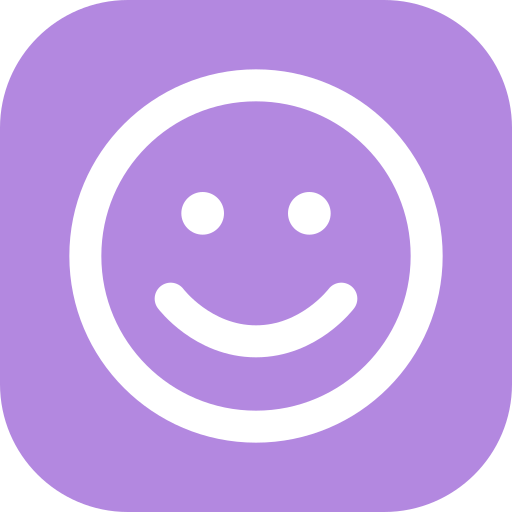
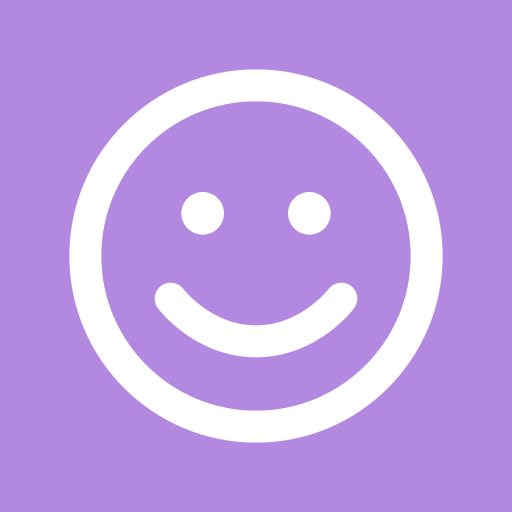
Updates

diff --git a/sw.js b/sw.js
@@ -1,2 +1,2 @@
 try{self["workbox:core:7.4.0"]&&_()}catch{}const T=(a,...e)=>{let t=a;return e.length>0&&(t+=` :: ${JSON.stringify(e)}`),t},N=T;class l extends Error{constructor(e,t){const s=N(e,t);super(s),this.name=e,this.details=t}}const E=new Set,f={googleAnalytics:"googleAnalytics",precache:"precache-v2",prefix:"workbox",runtime:"runtime",suffix:typeof registration<"u"?registration.scope:""},C=a=>[f.prefix,a,f.suffix].filter(e=>e&&e.length>0).join("-"),O=a=>{for(const e of Object.keys(f))a(e)},U={updateDetails:a=>{O(e=>{typeof a[e]=="string"&&(f[e]=a[e])})},getGoogleAnalyticsName:a=>a||C(f.googleAnalytics),getPrecacheName:a=>a||C(f.precache),getPrefix:()=>f.prefix,getRuntimeName:a=>a||C(f.runtime),getSuffix:()=>f.suffix};function k(a,e){const t=new URL(a);for(const s of e)t.searchParams.delete(s);return t.href}async function I(a,e,t,s){const n=k(e.url,t);if(e.url===n)return a.match(e,s);const r=Object.assign(Object.assign({},s),{ignoreSearch:!0}),c=await a.keys(e,r);for(const i of c){const o=k(i.url,t);if(n===o)return a.match(i,s)}}let y;function M(){if(y===void 0){const a=new Response("");if("body"in a)try{new Response(a.body),y=!0}catch{y=!1}y=!1}return y}class W{constructor(){this.promise=new Promise((e,t)=>{this.resolve=e,this.reject=t})}}async function A(){for(const a of E)await a()}const S=a=>new URL(String(a),location.href).href.replace(new RegExp(`^${location.origin}`),"");function q(a){return new Promise(e=>setTimeout(e,a))}function P(a,e){const t=e();return a.waitUntil(t),t}async function D(a,e){let t=null;if(a.url&&(t=new URL(a.url).origin),t!==self.location.origin)throw new l("cross-origin-copy-response",{origin:t});const s=a.clone(),r={headers:new Headers(s.headers),status:s.status,statusText:s.statusText},c=M()?s.body:await s.blob();return new Response(c,r)}function j(){self.addEventListener("activate",()=>self.clients.claim())}try{self["workbox:precaching:7.4.0"]&&_()}catch{}const H="__WB_REVISION__";function F(a){if(!a)throw new l("add-to-cache-list-unexpected-type",{entry:a});if(typeof a=="string"){const r=new URL(a,location.href);return{cacheKey:r.href,url:r.href}}const{revision:e,url:t}=a;if(!t)throw new l("add-to-cache-list-unexpected-type",{entry:a});if(!e){const r=new URL(t,location.href);return{cacheKey:r.href,url:r.href}}const s=new URL(t,location.href),n=new URL(t,location.href);return s.searchParams.set(H,e),{cacheKey:s.href,url:n.href}}class B{constructor(){this.updatedURLs=[],this.notUpdatedURLs=[],this.handlerWillStart=async({request:e,state:t})=>{t&&(t.originalRequest=e)},this.cachedResponseWillBeUsed=async({event:e,state:t,cachedResponse:s})=>{if(e.type==="install"&&t&&t.originalRequest&&t.originalRequest instanceof Request){const n=t.originalRequest.url;s?this.notUpdatedURLs.push(n):this.updatedURLs.push(n)}return s}}}class ${constructor({precacheController:e}){this.cacheKeyWillBeUsed=async({request:t,params:s})=>{const n=(s==null?void 0:s.cacheKey)||this._precacheController.getCacheKeyForURL(t.url);return n?new Request(n,{headers:t.headers}):t},this._precacheController=e}}try{self["workbox:strategies:7.4.0"]&&_()}catch{}function m(a){return typeof a=="string"?new Request(a):a}class V{constructor(e,t){this._cacheKeys={},Object.assign(this,t),this.event=t.event,this._strategy=e,this._handlerDeferred=new W,this._extendLifetimePromises=[],this._plugins=[...e.plugins],this._pluginStateMap=new Map;for(const s of this._plugins)this._pluginStateMap.set(s,{});this.event.waitUntil(this._handlerDeferred.promise)}async fetch(e){const{event:t}=this;let s=m(e);if(s.mode==="navigate"&&t instanceof FetchEvent&&t.preloadResponse){const c=await t.preloadResponse;if(c)return c}const n=this.hasCallback("fetchDidFail")?s.clone():null;try{for(const c of this.iterateCallbacks("requestWillFetch"))s=await c({request:s.clone(),event:t})}catch(c){if(c instanceof Error)throw new l("plugin-error-request-will-fetch",{thrownErrorMessage:c.message})}const r=s.clone();try{let c;c=await fetch(s,s.mode==="navigate"?void 0:this._strategy.fetchOptions);for(const i of this.iterateCallbacks("fetchDidSucceed"))c=await i({event:t,request:r,response:c});return c}catch(c){throw n&&await this.runCallbacks("fetchDidFail",{error:c,event:t,originalRequest:n.clone(),request:r.clone()}),c}}async fetchAndCachePut(e){const t=await this.fetch(e),s=t.clone();return this.waitUntil(this.cachePut(e,s)),t}async cacheMatch(e){const t=m(e);let s;const{cacheName:n,matchOptions:r}=this._strategy,c=await this.getCacheKey(t,"read"),i=Object.assign(Object.assign({},r),{cacheName:n});s=await caches.match(c,i);for(const o of this.iterateCallbacks("cachedResponseWillBeUsed"))s=await o({cacheName:n,matchOptions:r,cachedResponse:s,request:c,event:this.event})||void 0;return s}async cachePut(e,t){const s=m(e);await q(0);const n=await this.getCacheKey(s,"write");if(!t)throw new l("cache-put-with-no-response",{url:S(n.url)});const r=await this._ensureResponseSafeToCache(t);if(!r)return!1;const{cacheName:c,matchOptions:i}=this._strategy,o=await self.caches.open(c),h=this.hasCallback("cacheDidUpdate"),p=h?await I(o,n.clone(),["__WB_REVISION__"],i):null;try{await o.put(n,h?r.clone():r)}catch(u){if(u instanceof Error)throw u.name==="QuotaExceededError"&&await A(),u}for(const u of this.iterateCallbacks("cacheDidUpdate"))await u({cacheName:c,oldResponse:p,newResponse:r.clone(),request:n,event:this.event});return!0}async getCacheKey(e,t){const s=`${e.url} | ${t}`;if(!this._cacheKeys[s]){let n=e;for(const r of this.iterateCallbacks("cacheKeyWillBeUsed"))n=m(await r({mode:t,request:n,event:this.event,params:this.params}));this._cacheKeys[s]=n}return this._cacheKeys[s]}hasCallback(e){for(const t of this._strategy.plugins)if(e in t)return!0;return!1}async runCallbacks(e,t){for(const s of this.iterateCallbacks(e))await s(t)}*iterateCallbacks(e){for(const t of this._strategy.plugins)if(typeof t[e]=="function"){const s=this._pluginStateMap.get(t);yield r=>{const c=Object.assign(Object.assign({},r),{state:s});return t[e](c)}}}waitUntil(e){return this._extendLifetimePromises.push(e),e}async doneWaiting(){for(;this._extendLifetimePromises.length;){const e=this._extendLifetimePromises.splice(0),s=(await Promise.allSettled(e)).find(n=>n.status==="rejected");if(s)throw s.reason}}destroy(){this._handlerDeferred.resolve(null)}async _ensureResponseSafeToCache(e){let t=e,s=!1;for(const n of this.iterateCallbacks("cacheWillUpdate"))if(t=await n({request:this.request,response:t,event:this.event})||void 0,s=!0,!t)break;return s||t&&t.status!==200&&(t=void 0),t}}class G{constructor(e={}){this.cacheName=U.getRuntimeName(e.cacheName),this.plugins=e.plugins||[],this.fetchOptions=e.fetchOptions,this.matchOptions=e.matchOptions}handle(e){const[t]=this.handleAll(e);return t}handleAll(e){e instanceof FetchEvent&&(e={event:e,request:e.request});const t=e.event,s=typeof e.request=="string"?new Request(e.request):e.request,n="params"in e?e.params:void 0,r=new V(this,{event:t,request:s,params:n}),c=this._getResponse(r,s,t),i=this._awaitComplete(c,r,s,t);return[c,i]}async _getResponse(e,t,s){await e.runCallbacks("handlerWillStart",{event:s,request:t});let n;try{if(n=await this._handle(t,e),!n||n.type==="error")throw new l("no-response",{url:t.url})}catch(r){if(r instanceof Error){for(const c of e.iterateCallbacks("handlerDidError"))if(n=await c({error:r,event:s,request:t}),n)break}if(!n)throw r}for(const r of e.iterateCallbacks("handlerWillRespond"))n=await r({event:s,request:t,response:n});return n}async _awaitComplete(e,t,s,n){let r,c;try{r=await e}catch{}try{await t.runCallbacks("handlerDidRespond",{event:n,request:s,response:r}),await t.doneWaiting()}catch(i){i instanceof Error&&(c=i)}if(await t.runCallbacks("handlerDidComplete",{event:n,request:s,response:r,error:c}),t.destroy(),c)throw c}}class d extends G{constructor(e={}){e.cacheName=U.getPrecacheName(e.cacheName),super(e),this._fallbackToNetwork=e.fallbackToNetwork!==!1,this.plugins.push(d.copyRedirectedCacheableResponsesPlugin)}async _handle(e,t){const s=await t.cacheMatch(e);return s||(t.event&&t.event.type==="install"?await this._handleInstall(e,t):await this._handleFetch(e,t))}async _handleFetch(e,t){let s;const n=t.params||{};if(this._fallbackToNetwork){const r=n.integrity,c=e.integrity,i=!c||c===r;s=await t.fetch(new Request(e,{integrity:e.mode!=="no-cors"?c||r:void 0})),r&&i&&e.mode!=="no-cors"&&(this._useDefaultCacheabilityPluginIfNeeded(),await t.cachePut(e,s.clone()))}else throw new l("missing-precache-entry",{cacheName:this.cacheName,url:e.url});return s}async _handleInstall(e,t){this._useDefaultCacheabilityPluginIfNeeded();const s=await t.fetch(e);if(!await t.cachePut(e,s.clone()))throw new l("bad-precaching-response",{url:e.url,status:s.status});return s}_useDefaultCacheabilityPluginIfNeeded(){let e=null,t=0;for(const[s,n]of this.plugins.entries())n!==d.copyRedirectedCacheableResponsesPlugin&&(n===d.defaultPrecacheCacheabilityPlugin&&(e=s),n.cacheWillUpdate&&t++);t===0?this.plugins.push(d.defaultPrecacheCacheabilityPlugin):t>1&&e!==null&&this.plugins.splice(e,1)}}d.defaultPrecacheCacheabilityPlugin={async cacheWillUpdate({response:a}){return!a||a.status>=400?null:a}};d.copyRedirectedCacheableResponsesPlugin={async cacheWillUpdate({response:a}){return a.redirected?await D(a):a}};class Q{constructor({cacheName:e,plugins:t=[],fallbackToNetwork:s=!0}={}){this._urlsToCacheKeys=new Map,this._urlsToCacheModes=new Map,this._cacheKeysToIntegrities=new Map,this._strategy=new d({cacheName:U.getPrecacheName(e),plugins:[...t,new $({precacheController:this})],fallbackToNetwork:s}),this.install=this.install.bind(this),this.activate=this.activate.bind(this)}get strategy(){return this._strategy}precache(e){this.addToCacheList(e),this._installAndActiveListenersAdded||(self.addEventListener("install",this.install),self.addEventListener("activate",this.activate),this._installAndActiveListenersAdded=!0)}addToCacheList(e){const t=[];for(const s of e){typeof s=="string"?t.push(s):s&&s.revision===void 0&&t.push(s.url);const{cacheKey:n,url:r}=F(s),c=typeof s!="string"&&s.revision?"reload":"default";if(this._urlsToCacheKeys.has(r)&&this._urlsToCacheKeys.get(r)!==n)throw new l("add-to-cache-list-conflicting-entries",{firstEntry:this._urlsToCacheKeys.get(r),secondEntry:n});if(typeof s!="string"&&s.integrity){if(this._cacheKeysToIntegrities.has(n)&&this._cacheKeysToIntegrities.get(n)!==s.integrity)throw new l("add-to-cache-list-conflicting-integrities",{url:r});this._cacheKeysToIntegrities.set(n,s.integrity)}if(this._urlsToCacheKeys.set(r,n),this._urlsToCacheModes.set(r,c),t.length>0){const i=`Workbox is precaching URLs without revision info: ${t.join(", ")}
-This is generally NOT safe. Learn more at https://bit.ly/wb-precache`;console.warn(i)}}}install(e){return P(e,async()=>{const t=new B;this.strategy.plugins.push(t);for(const[r,c]of this._urlsToCacheKeys){const i=this._cacheKeysToIntegrities.get(c),o=this._urlsToCacheModes.get(r),h=new Request(r,{integrity:i,cache:o,credentials:"same-origin"});await Promise.all(this.strategy.handleAll({params:{cacheKey:c},request:h,event:e}))}const{updatedURLs:s,notUpdatedURLs:n}=t;return{updatedURLs:s,notUpdatedURLs:n}})}activate(e){return P(e,async()=>{const t=await self.caches.open(this.strategy.cacheName),s=await t.keys(),n=new Set(this._urlsToCacheKeys.values()),r=[];for(const c of s)n.has(c.url)||(await t.delete(c),r.push(c.url));return{deletedURLs:r}})}getURLsToCacheKeys(){return this._urlsToCacheKeys}getCachedURLs(){return[...this._urlsToCacheKeys.keys()]}getCacheKeyForURL(e){const t=new URL(e,location.href);return this._urlsToCacheKeys.get(t.href)}getIntegrityForCacheKey(e){return this._cacheKeysToIntegrities.get(e)}async matchPrecache(e){const t=e instanceof Request?e.url:e,s=this.getCacheKeyForURL(t);if(s)return(await self.caches.open(this.strategy.cacheName)).match(s)}createHandlerBoundToURL(e){const t=this.getCacheKeyForURL(e);if(!t)throw new l("non-precached-url",{url:e});return s=>(s.request=new Request(e),s.params=Object.assign({cacheKey:t},s.params),this.strategy.handle(s))}}let b;const K=()=>(b||(b=new Q),b);try{self["workbox:routing:7.4.0"]&&_()}catch{}const v="GET",R=a=>a&&typeof a=="object"?a:{handle:a};class g{constructor(e,t,s=v){this.handler=R(t),this.match=e,this.method=s}setCatchHandler(e){this.catchHandler=R(e)}}class z extends g{constructor(e,t,s){const n=({url:r})=>{const c=e.exec(r.href);if(c&&!(r.origin!==location.origin&&c.index!==0))return c.slice(1)};super(n,t,s)}}class J{constructor(){this._routes=new Map,this._defaultHandlerMap=new Map}get routes(){return this._routes}addFetchListener(){self.addEventListener("fetch",(e=>{const{request:t}=e,s=this.handleRequest({request:t,event:e});s&&e.respondWith(s)}))}addCacheListener(){self.addEventListener("message",(e=>{if(e.data&&e.data.type==="CACHE_URLS"){const{payload:t}=e.data,s=Promise.all(t.urlsToCache.map(n=>{typeof n=="string"&&(n=[n]);const r=new Request(...n);return this.handleRequest({request:r,event:e})}));e.waitUntil(s),e.ports&&e.ports[0]&&s.then(()=>e.ports[0].postMessage(!0))}}))}handleRequest({request:e,event:t}){const s=new URL(e.url,location.href);if(!s.protocol.startsWith("http"))return;const n=s.origin===location.origin,{params:r,route:c}=this.findMatchingRoute({event:t,request:e,sameOrigin:n,url:s});let i=c&&c.handler;const o=e.method;if(!i&&this._defaultHandlerMap.has(o)&&(i=this._defaultHandlerMap.get(o)),!i)return;let h;try{h=i.handle({url:s,request:e,event:t,params:r})}catch(u){h=Promise.reject(u)}const p=c&&c.catchHandler;return h instanceof Promise&&(this._catchHandler||p)&&(h=h.catch(async u=>{if(p)try{return await p.handle({url:s,request:e,event:t,params:r})}catch(L){L instanceof Error&&(u=L)}if(this._catchHandler)return this._catchHandler.handle({url:s,request:e,event:t});throw u})),h}findMatchingRoute({url:e,sameOrigin:t,request:s,event:n}){const r=this._routes.get(s.method)||[];for(const c of r){let i;const o=c.match({url:e,sameOrigin:t,request:s,event:n});if(o)return i=o,(Array.isArray(i)&&i.length===0||o.constructor===Object&&Object.keys(o).length===0||typeof o=="boolean")&&(i=void 0),{route:c,params:i}}return{}}setDefaultHandler(e,t=v){this._defaultHandlerMap.set(t,R(e))}setCatchHandler(e){this._catchHandler=R(e)}registerRoute(e){this._routes.has(e.method)||this._routes.set(e.method,[]),this._routes.get(e.method).push(e)}unregisterRoute(e){if(!this._routes.has(e.method))throw new l("unregister-route-but-not-found-with-method",{method:e.method});const t=this._routes.get(e.method).indexOf(e);if(t>-1)this._routes.get(e.method).splice(t,1);else throw new l("unregister-route-route-not-registered")}}let w;const X=()=>(w||(w=new J,w.addFetchListener(),w.addCacheListener()),w);function x(a,e,t){let s;if(typeof a=="string"){const r=new URL(a,location.href),c=({url:i})=>i.href===r.href;s=new g(c,e,t)}else if(a instanceof RegExp)s=new z(a,e,t);else if(typeof a=="function")s=new g(a,e,t);else if(a instanceof g)s=a;else throw new l("unsupported-route-type",{moduleName:"workbox-routing",funcName:"registerRoute",paramName:"capture"});return X().registerRoute(s),s}function Y(a,e=[]){for(const t of[...a.searchParams.keys()])e.some(s=>s.test(t))&&a.searchParams.delete(t);return a}function*Z(a,{ignoreURLParametersMatching:e=[/^utm_/,/^fbclid$/],directoryIndex:t="index.html",cleanURLs:s=!0,urlManipulation:n}={}){const r=new URL(a,location.href);r.hash="",yield r.href;const c=Y(r,e);if(yield c.href,t&&c.pathname.endsWith("/")){const i=new URL(c.href);i.pathname+=t,yield i.href}if(s){const i=new URL(c.href);i.pathname+=".html",yield i.href}if(n){const i=n({url:r});for(const o of i)yield o.href}}class ee extends g{constructor(e,t){const s=({request:n})=>{const r=e.getURLsToCacheKeys();for(const c of Z(n.url,t)){const i=r.get(c);if(i){const o=e.getIntegrityForCacheKey(i);return{cacheKey:i,integrity:o}}}};super(s,e.strategy)}}function te(a){const e=K(),t=new ee(e,a);x(t)}function se(a){K().precache(a)}function ae(a,e){se(a),te(e)}class ne extends g{constructor(e,{allowlist:t=[/./],denylist:s=[]}={}){super(n=>this._match(n),e),this._allowlist=t,this._denylist=s}_match({url:e,request:t}){if(t&&t.mode!=="navigate")return!1;const s=e.pathname+e.search;for(const n of this._denylist)if(n.test(s))return!1;return!!this._allowlist.some(n=>n.test(s))}}self.skipWaiting();ae([{"revision":"5b3e1eb7dce1493eb16307f4fd1362b1","url":"vite.svg"},{"revision":"9dc4930d603cca09d21a79f81e86f9a0","url":"index.html"},{"revision":"bf6a9ffdca78d77505ceb32aa440a8b5","url":"icon-512.png"},{"revision":"ba45f10fb22188d30305d7ed68cfe196","url":"icon-192.png"},{"revision":null,"url":"assets/vendor-supabase-Dh4Wgp8d.js"},{"revision":null,"url":"assets/vendor-BtLfHkMO.js"},{"revision":null,"url":"assets/stats-page-D68xm_7V.js"},{"revision":null,"url":"assets/index-Df_hbdbU.css"},{"revision":null,"url":"assets/index-BGMjZKEN.js"},{"revision":null,"url":"assets/figtree-latin-wght-normal-D_ZTVpCC.woff2"},{"revision":null,"url":"assets/figtree-latin-ext-wght-normal-DCwSJGxG.woff2"},{"revision":null,"url":"assets/daily-log-B-K4M-Hs.js"},{"revision":"ba45f10fb22188d30305d7ed68cfe196","url":"icon-192.png"},{"revision":"bf6a9ffdca78d77505ceb32aa440a8b5","url":"icon-512.png"},{"revision":"5b3e1eb7dce1493eb16307f4fd1362b1","url":"vite.svg"},{"revision":"9b114565a7e41608259695d39589347f","url":"manifest.webmanifest"}]);const re=new ne(async()=>{const a=await fetch("/habit-tracker/index.html");if(a.ok)return a;const t=await(await caches.open("workbox-precache")).match("index.html");return t||new Response("Offline",{status:503})});x(re);self.addEventListener("activate",()=>{j()});
+This is generally NOT safe. Learn more at https://bit.ly/wb-precache`;console.warn(i)}}}install(e){return P(e,async()=>{const t=new B;this.strategy.plugins.push(t);for(const[r,c]of this._urlsToCacheKeys){const i=this._cacheKeysToIntegrities.get(c),o=this._urlsToCacheModes.get(r),h=new Request(r,{integrity:i,cache:o,credentials:"same-origin"});await Promise.all(this.strategy.handleAll({params:{cacheKey:c},request:h,event:e}))}const{updatedURLs:s,notUpdatedURLs:n}=t;return{updatedURLs:s,notUpdatedURLs:n}})}activate(e){return P(e,async()=>{const t=await self.caches.open(this.strategy.cacheName),s=await t.keys(),n=new Set(this._urlsToCacheKeys.values()),r=[];for(const c of s)n.has(c.url)||(await t.delete(c),r.push(c.url));return{deletedURLs:r}})}getURLsToCacheKeys(){return this._urlsToCacheKeys}getCachedURLs(){return[...this._urlsToCacheKeys.keys()]}getCacheKeyForURL(e){const t=new URL(e,location.href);return this._urlsToCacheKeys.get(t.href)}getIntegrityForCacheKey(e){return this._cacheKeysToIntegrities.get(e)}async matchPrecache(e){const t=e instanceof Request?e.url:e,s=this.getCacheKeyForURL(t);if(s)return(await self.caches.open(this.strategy.cacheName)).match(s)}createHandlerBoundToURL(e){const t=this.getCacheKeyForURL(e);if(!t)throw new l("non-precached-url",{url:e});return s=>(s.request=new Request(e),s.params=Object.assign({cacheKey:t},s.params),this.strategy.handle(s))}}let b;const K=()=>(b||(b=new Q),b);try{self["workbox:routing:7.4.0"]&&_()}catch{}const v="GET",R=a=>a&&typeof a=="object"?a:{handle:a};class g{constructor(e,t,s=v){this.handler=R(t),this.match=e,this.method=s}setCatchHandler(e){this.catchHandler=R(e)}}class z extends g{constructor(e,t,s){const n=({url:r})=>{const c=e.exec(r.href);if(c&&!(r.origin!==location.origin&&c.index!==0))return c.slice(1)};super(n,t,s)}}class J{constructor(){this._routes=new Map,this._defaultHandlerMap=new Map}get routes(){return this._routes}addFetchListener(){self.addEventListener("fetch",(e=>{const{request:t}=e,s=this.handleRequest({request:t,event:e});s&&e.respondWith(s)}))}addCacheListener(){self.addEventListener("message",(e=>{if(e.data&&e.data.type==="CACHE_URLS"){const{payload:t}=e.data,s=Promise.all(t.urlsToCache.map(n=>{typeof n=="string"&&(n=[n]);const r=new Request(...n);return this.handleRequest({request:r,event:e})}));e.waitUntil(s),e.ports&&e.ports[0]&&s.then(()=>e.ports[0].postMessage(!0))}}))}handleRequest({request:e,event:t}){const s=new URL(e.url,location.href);if(!s.protocol.startsWith("http"))return;const n=s.origin===location.origin,{params:r,route:c}=this.findMatchingRoute({event:t,request:e,sameOrigin:n,url:s});let i=c&&c.handler;const o=e.method;if(!i&&this._defaultHandlerMap.has(o)&&(i=this._defaultHandlerMap.get(o)),!i)return;let h;try{h=i.handle({url:s,request:e,event:t,params:r})}catch(u){h=Promise.reject(u)}const p=c&&c.catchHandler;return h instanceof Promise&&(this._catchHandler||p)&&(h=h.catch(async u=>{if(p)try{return await p.handle({url:s,request:e,event:t,params:r})}catch(L){L instanceof Error&&(u=L)}if(this._catchHandler)return this._catchHandler.handle({url:s,request:e,event:t});throw u})),h}findMatchingRoute({url:e,sameOrigin:t,request:s,event:n}){const r=this._routes.get(s.method)||[];for(const c of r){let i;const o=c.match({url:e,sameOrigin:t,request:s,event:n});if(o)return i=o,(Array.isArray(i)&&i.length===0||o.constructor===Object&&Object.keys(o).length===0||typeof o=="boolean")&&(i=void 0),{route:c,params:i}}return{}}setDefaultHandler(e,t=v){this._defaultHandlerMap.set(t,R(e))}setCatchHandler(e){this._catchHandler=R(e)}registerRoute(e){this._routes.has(e.method)||this._routes.set(e.method,[]),this._routes.get(e.method).push(e)}unregisterRoute(e){if(!this._routes.has(e.method))throw new l("unregister-route-but-not-found-with-method",{method:e.method});const t=this._routes.get(e.method).indexOf(e);if(t>-1)this._routes.get(e.method).splice(t,1);else throw new l("unregister-route-route-not-registered")}}let w;const X=()=>(w||(w=new J,w.addFetchListener(),w.addCacheListener()),w);function x(a,e,t){let s;if(typeof a=="string"){const r=new URL(a,location.href),c=({url:i})=>i.href===r.href;s=new g(c,e,t)}else if(a instanceof RegExp)s=new z(a,e,t);else if(typeof a=="function")s=new g(a,e,t);else if(a instanceof g)s=a;else throw new l("unsupported-route-type",{moduleName:"workbox-routing",funcName:"registerRoute",paramName:"capture"});return X().registerRoute(s),s}function Y(a,e=[]){for(const t of[...a.searchParams.keys()])e.some(s=>s.test(t))&&a.searchParams.delete(t);return a}function*Z(a,{ignoreURLParametersMatching:e=[/^utm_/,/^fbclid$/],directoryIndex:t="index.html",cleanURLs:s=!0,urlManipulation:n}={}){const r=new URL(a,location.href);r.hash="",yield r.href;const c=Y(r,e);if(yield c.href,t&&c.pathname.endsWith("/")){const i=new URL(c.href);i.pathname+=t,yield i.href}if(s){const i=new URL(c.href);i.pathname+=".html",yield i.href}if(n){const i=n({url:r});for(const o of i)yield o.href}}class ee extends g{constructor(e,t){const s=({request:n})=>{const r=e.getURLsToCacheKeys();for(const c of Z(n.url,t)){const i=r.get(c);if(i){const o=e.getIntegrityForCacheKey(i);return{cacheKey:i,integrity:o}}}};super(s,e.strategy)}}function te(a){const e=K(),t=new ee(e,a);x(t)}function se(a){K().precache(a)}function ae(a,e){se(a),te(e)}class ne extends g{constructor(e,{allowlist:t=[/./],denylist:s=[]}={}){super(n=>this._match(n),e),this._allowlist=t,this._denylist=s}_match({url:e,request:t}){if(t&&t.mode!=="navigate")return!1;const s=e.pathname+e.search;for(const n of this._denylist)if(n.test(s))return!1;return!!this._allowlist.some(n=>n.test(s))}}self.skipWaiting();ae([{"revision":"22268bada182ea94b7c23fae77436c12","url":"vite.svg"},{"revision":"9dc4930d603cca09d21a79f81e86f9a0","url":"index.html"},{"revision":"be929f8b59f5d55155cc41495466fb10","url":"icon-512.png"},{"revision":"e011c4d0c7dd22d60ed74d88820d415f","url":"icon-192.png"},{"revision":null,"url":"assets/vendor-supabase-Dh4Wgp8d.js"},{"revision":null,"url":"assets/vendor-BtLfHkMO.js"},{"revision":null,"url":"assets/stats-page-D68xm_7V.js"},{"revision":null,"url":"assets/index-Df_hbdbU.css"},{"revision":null,"url":"assets/index-BGMjZKEN.js"},{"revision":null,"url":"assets/figtree-latin-wght-normal-D_ZTVpCC.woff2"},{"revision":null,"url":"assets/figtree-latin-ext-wght-normal-DCwSJGxG.woff2"},{"revision":null,"url":"assets/daily-log-B-K4M-Hs.js"},{"revision":"e011c4d0c7dd22d60ed74d88820d415f","url":"icon-192.png"},{"revision":"be929f8b59f5d55155cc41495466fb10","url":"icon-512.png"},{"revision":"22268bada182ea94b7c23fae77436c12","url":"vite.svg"},{"revision":"7933dc3222d0d3e4ffccd713ac4e928b","url":"manifest.webmanifest"}]);const re=new ne(async()=>{const a=await fetch("/habit-tracker/index.html");if(a.ok)return a;const t=await(await caches.open("workbox-precache")).match("index.html");return t||new Response("Offline",{status:503})});x(re);self.addEventListener("activate",()=>{j()});